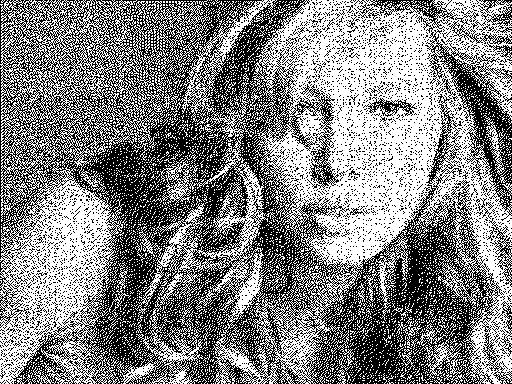
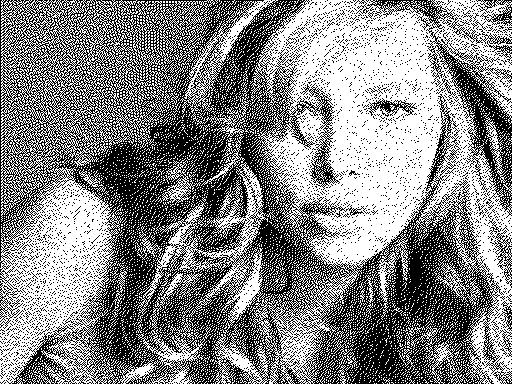
poprawy cd
?

poprawy cd

diff --git a/LaLaLa/rekonstrukcja.m b/LaLaLa/rekonstrukcja.m
@@ -1,0 +1,77 @@
+function [  ] = rekonstrukcja(  )
+
+X = imread('lenaPrzerobiona.jpg'); %Wczytuje obrazek 
+%if( size(X,3) > 1)
+%    X = rgb2gray(X);
+%end
+ref = X;
+X = double(X);
+
+N = size(X,1);
+Y = zeros(N);
+step = 8;
+
+%%Scalar
+
+scalar = 0.13;
+
+
+Y = zeros(N);
+Z = zeros(8,8);
+U = zeros(N);
+
+a1 = 2;
+a2 = 2.2;
+a3 = 2.2;
+a4 = 2.1;
+
+[ RandX, przesX,przesY,qim] = GenerateRandX;
+
+for i=1:step:N
+    for j=1:step:N
+        U(i:i+step-1,j:j+step-1) = dct2(X(i:i+step-1,j:j+step-1));
+    end
+end
+tempX = zeros(4,1);
+stat = 6;
+for i=1:step:N
+    for j=1:step:N
+      il = 0;
+      q = 1;
+      for k = 1:step
+           for l = 1:step                 
+              if RandX(k,l) == 2
+                 posX = mod(i + k - 1 + przesX,513) + floor((i + k - 1 + przesX)/513);
+                 posY = mod(j + l - 1 + przesY,513) + floor((j + l - 1 + przesY)/513);
+                 tempX(q) = U(posX,posY)/scalar;
+                 q = q + 1;
+              else
+                 a = mod(U(i+k-1,j+l-1),2*qim);
+                 if a > qim/2 && a < 3*qim/2
+                    il = il + 1;
+                 end
+              end
+           end
+      end        
+      stat = (stat + il)/2;
+      Z(1,1) = a1*(sum(tempX));
+      Z(1,2) = a2*(tempX(1) - tempX(2) + tempX(3) - tempX(4));
+      Z(2,1) = a3*(tempX(1) + tempX(2) - tempX(3) - tempX(4));
+      Z(2,2) = a4*(tempX(1) - tempX(2) - tempX(3) + tempX(4));
+      Z = idct2(Z);
+      Y(i:i+step-1,j:j+step-1) = Z;
+      Z(:,:) = 0;
+    end
+end
+stat
+colormap gray;
+imshow(uint8(X-Y));
+
+%imagesc(X-Y)
+imwrite(uint8(X-Y),'odzyskana.jpg');
+
+[PSNR,MSE,MAXERR,L2RAT] = measerr(ref,Y);
+PSNR
+
+end
+

diff --git a/LaLaLa/GenerateRandX.m b/LaLaLa/GenerateRandX.m
@@ -1,0 +1,15 @@
+function [ RandX,przesX,przesY,qim ] = generateRandX(  )
+
+RandX =[     0     0     0     0     0     0     0     0
+     0     0     0     0     0     0     0     1
+     0     0     0     0     0     0     0     0
+     0     0     0     0     0     0     0     0
+     0     0     0     1     0     0     0     0
+     0     2     0     0     0     0     0     1
+     0     1     0     2     1     0     0     2
+     0     0     0     0     1     2     0     0];
+przesX = 64;
+przesY = 128;
+qim = 5;
+end
+

diff --git a/projektGUI.m b/projektGUI.m
@@ -149,7 +149,6 @@ function pushbutton1_Callback(hObject, eventdata, handles)
 % handles    structure with handles and user data (see GUIDATA)
 guidata(hObject, handles);
 filename=0;
-disp(handles)
 handles.krok=double(handles.text5);
 while(filename==0 & handles.jest==0)
     warning('Wybierz plik');
